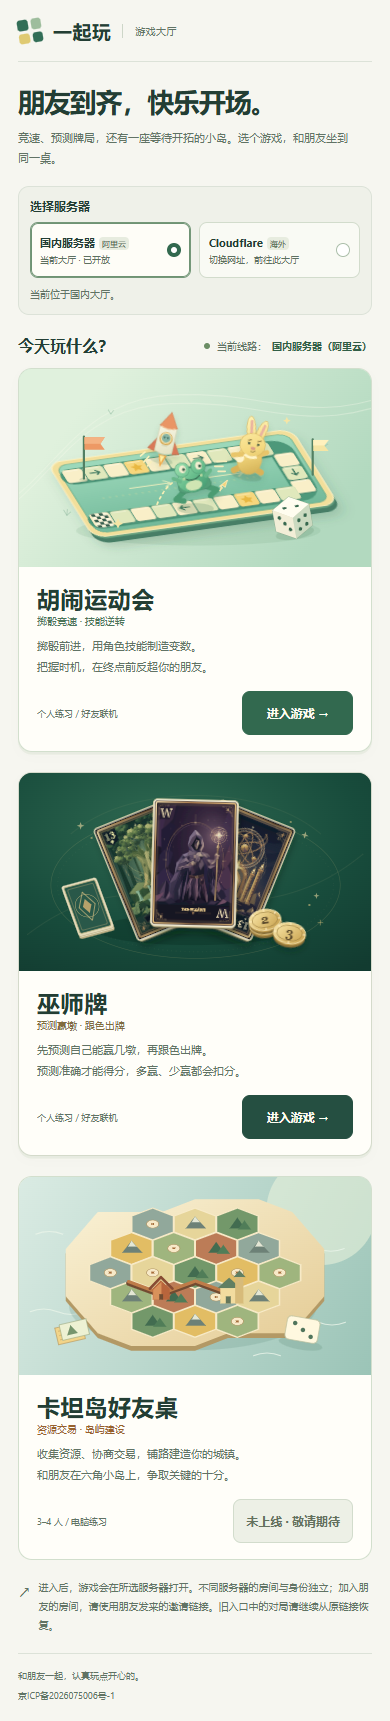
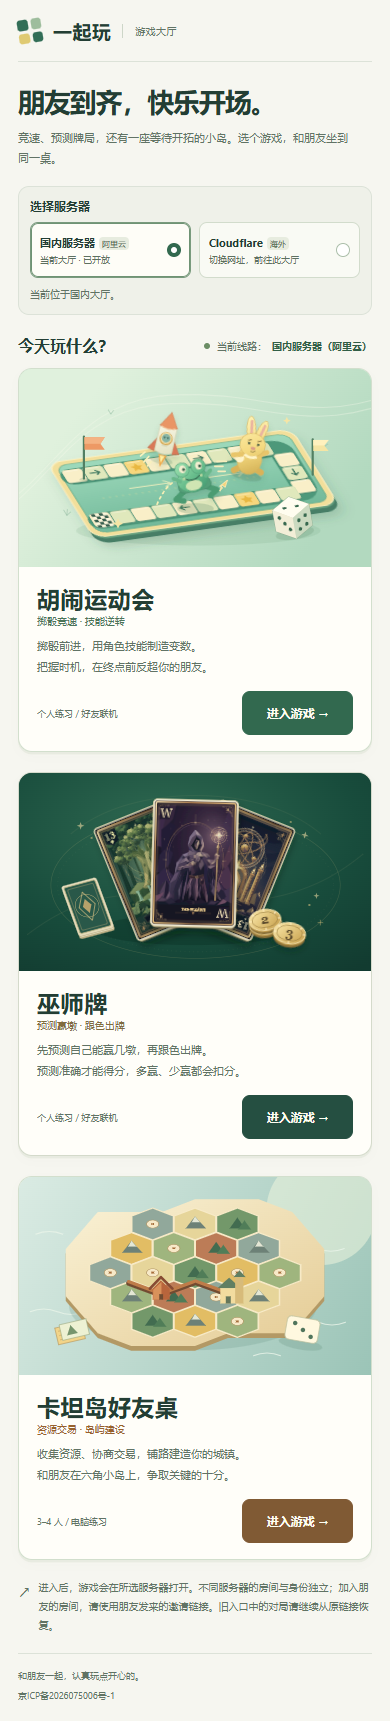
feat: enable accepted Catan entries in both lobbies [skip ci]

Changed region(s): [[0.6154, 0.8623, 0.9231, 0.9239]]

diff --git a/docs/catan-integration.md b/docs/catan-integration.md
@@ -1,5 +1,7 @@
 # 卡坦岛接入与上线门禁（2026-11-05）
 
+> 后续上线阶段：用户已明确批准合并 PR、双端部署及真实验收通过后启用入口。大厅 PR #52 与卡坦岛 PR #1 已合并并完成首次双端发布；独立 DNS、TLS、服务、OIDC/STS 发布身份、Cloudflare Worker 已核验。当前准备在验收完成后通过本次配置更新开放两服入口；下文“只准备代码/待授权”保留为初始阶段记录，不能覆盖这项后续授权。最终真实验收与回滚结果在合并本次启用配置前补充。
+
 本次只准备代码与 PR。两个大厅中的卡坦岛均为 `enabled:false`，显示“未上线 · 敬请期待”；没有合并、修改生产、创建线上测试房或购买服务。不可把本地验证当作生产验收。
 
 ## 本次改动
@@ -31,7 +33,7 @@
 - `npm run typecheck:release`、`npm run build` 通过；构建既有大包提示，不新增依赖。
 - `node --import tsx --test tests/lobby.test.ts tests/lobby-resources.test.ts`：7/7，含六个入口、卡坦岛关闭、服务器冲突/参数净化/错误配置、资源白名单、两份产物一致。
 - `playwright test tests/browser/lobby.spec.ts`：11/11，覆盖双大厅整页切换/刷新、模拟启用后的三游戏六入口/触屏、十种合法邀请组合、卡坦岛观战拒绝、存储受限、配置漂移终止循环以及 320–1440px 布局。
-- [桌面截图](qa/catan-lobby/desktop.png)、[手机截图](qa/catan-lobby/mobile.png) 是本地浏览器拦截生产形状 URL 的交付配置，原两个游戏开放、卡坦岛关闭。截图不是生产、真实手机或 Safari 验收。
+- [桌面截图](qa/catan-lobby/desktop.png)、[手机截图](qa/catan-lobby/mobile.png) 是本地浏览器拦截生产形状 URL 的启用配置，三个游戏均按本服入口开放；关闭状态继续用独立 fixture 测试。截图不是生产、真实手机或 Safari 验收。
 - 卡坦岛 Node/Worker 规则、网络、浏览器与持久化验证详见其 PR；生产环境须在授权后验证。
 
 ## 回滚
